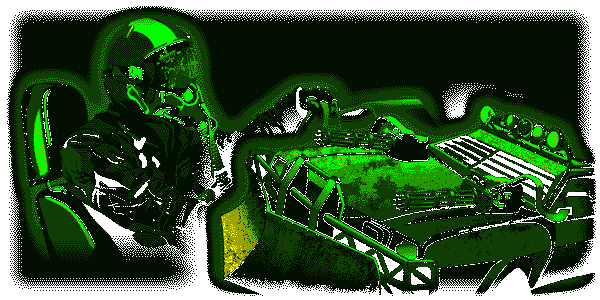
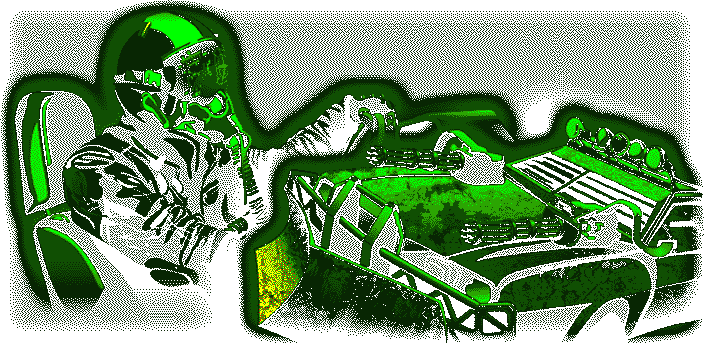
client: стартовое окно.

diff --git a/sublayers_common/static/css/modal_window.css b/sublayers_common/static/css/modal_window.css
@@ -159,8 +159,6 @@
     opacity: 0.95;
 }
 
-
-
 .dialogBtnOK {
     position: relative;
     float: left;
@@ -707,81 +705,68 @@
 
 /* Окно запроса на прохождение обучения в быстрой игре */
 #modalQuickGameMapTeachingPage {
-    width: 840px;
-    height: 380px;
-    margin-left: -420px;
+    width: 1200px;
+    height: 654px;
+    margin-left: -600px;
+    background: transparent url('/static/img/modal_window_image/monitor.png') 100% 100% no-repeat;
 }
 
-#modalQuickGameMapTeachingPage .modal-window-wrap {
-    padding: 0;
-    height: calc(100% - 26px);
-    border: none;
-    margin: 0;
-    font-family: FreePixel;
-    font-size: 16px
-}
-
-#modalQuickGameMapTeachingPage .left-path {
-    position: relative;
-    float: left;
-    width: 230px;
-    height: 100%;
-    padding: 5px 0 0 13px;
-    text-align: left;
-    box-sizing: border-box;
-    line-height: 22px;
-    font-weight: bold;
-}
-
-#modalQuickGameMapTeachingPage .question{
+.qg-mt-graphic-wrap {
     position: absolute;
-    bottom: 12px;
+    width: 826px;
+    height: 504px;
+    top: 57px;
+    left: 137px;
 }
 
-#modalQuickGameMapTeachingPage .right-path {
-    position: relative;
-    float: left;
-    width: calc(100% - 230px);
-    height: 100%;
-    box-sizing: border-box;
+.qg-mt-fight-btn {
+    position: absolute;
+    width: 138px;
+    height: 53px;
+    left: 982px;
+    top: 57px;
+    background: transparent url('/static/img/modal_window_image/btn1_start_active.png') 100% 100% no-repeat;
+    cursor: url(/static/img/cursors/hyper.png), pointer;
+}
+.qg-mt-fight-btn:hover {
+    background: transparent url('/static/img/modal_window_image/btn1_start_hover.png') 100% 100% no-repeat;
+}
+.qg-mt-fight-btn:active, .qg-pp-site-btn.active {
+    background: transparent url('/static/img/modal_window_image/btn1_start_press.png') 100% 100% no-repeat;
 }
 
-#modalQuickGameMapTeachingPage .start-qg-logo {
+.qg-mt-teaching-btn {
+    position: absolute;
+    width: 138px;
+    height: 53px;
+    left: 982px;
+    top: 110px;
+    background: transparent url('/static/img/modal_window_image/btn2_start_active.png') 100% 100% no-repeat;
+    cursor: url(/static/img/cursors/hyper.png), pointer;
+}
+.qg-mt-teaching-btn:hover {
+    background: transparent url('/static/img/modal_window_image/btn2_start_hover.png') 100% 100% no-repeat;
+}
+.qg-mt-teaching-btn:active, .qg-pp-again-btn.active {
+    background: transparent url('/static/img/modal_window_image/btn2_start_press.png') 100% 100% no-repeat;
+}
+
+.start-qg-logo {
     position: relative;
-    width: 600px;
-    height: 300px;
+    width: 704px;
+    height: 343px;
     margin: 0 auto;
     background: transparent url('/static/img/modal_window_image/start_qg.png') 100% 100% no-repeat;
-}
-
-#modalQuickGameMapTeachingPage .footer {
-    position: relative;
-    width: 100%;
-    height: calc(100% - 300px);
-    /*margin-top: 10px;*/
-    padding-top: 8px;
-    box-sizing: border-box;
-    border-width: 1px 0 0 0;
+    border-width: 0 0 1px 0;
     border-style: solid;
     border-image: linear-gradient(to right, transparent, #0e4b00, #0e4b00, #0e4b00, #0e4b00, transparent);
     border-image-slice: 1;
-    font: 18px Nouveau_IBM;
+    box-sizing: border-box;
 }
 
-#quickGameMapTeachingPageBtnOK {
+.start-qg-text {
     position: relative;
-    float: left;
-    margin-left: 30px;
-    width: 210px;
-    height: 30px;
-    line-height: 30px;
-}
-
-#quickGameMapTeachingPageBtnCancel {
-    position: relative;
-    float: right;
-    margin-right: 30px;
-    width: 210px;
-    height: 30px;
-    line-height: 30px;
+    width: 80%;
+    margin: 20px auto;
+    text-align: center;
 }

diff --git a/sublayers_common/static/js/modal_window.js b/sublayers_common/static/js/modal_window.js
@@ -17,7 +17,7 @@ var ModalWindow = (function () {
         this.modalAnswerInfo = $('#modalAnswerPage');
         this.modalItemDivision = $('#modalItemDivisionPage');
         this.modalQuickGamePoints = $('#modalQuickGamePointsPage');
-        this.modalQuickGameMapTeachingPage = $('#modalQuickGameMapTeachingPage');
+        this.modalQuickGameMapTeaching = $('#modalQuickGameMapTeachingPage');
 
         // утсновка классов по умолчанию
         this.parent.addClass('modal-window-parent');
@@ -30,7 +30,7 @@ var ModalWindow = (function () {
         this.modalAnswerInfo.addClass('modal-window-hide');
         this.modalItemDivision.addClass('modal-window-hide');
         this.modalQuickGamePoints.addClass('modal-window-hide');
-        this.modalQuickGameMapTeachingPage.addClass('modal-window-hide');
+        this.modalQuickGameMapTeaching.addClass('modal-window-hide');
 
         // Загрузка содержимого модельных окон
         this.modalWelcomeLoad();
@@ -534,7 +534,7 @@ var ModalWindow = (function () {
 
     ModalWindow.prototype.modalQuickGameMapTeachingPageLoad = function () {
         // Загрузить информацию из документа в див
-        this.modalQuickGameMapTeachingPage.load('/static/modal_window/modalQuickGameMapTeachingPage.html', function(){});
+        this.modalQuickGameMapTeaching.load('/static/modal_window/modalQuickGameMapTeachingPage.html', function(){});
     };
 
     ModalWindow.prototype.modalQuickGameMapTeachingPageShow = function (options) {
@@ -542,12 +542,12 @@ var ModalWindow = (function () {
         this._modalBackShow();
         options = options || {};
         // включить модальное окно modalOptions
-        this.modalQuickGameMapTeachingPage.removeClass('modal-window-hide');
-        this.modalQuickGameMapTeachingPage.addClass('modal-window-show');
+        this.modalQuickGameMapTeaching.removeClass('modal-window-hide');
+        this.modalQuickGameMapTeaching.addClass('modal-window-show');
 
         // Повесить новый эвент
-        var btn_ok = this.modalQuickGameMapTeachingPage.find('#quickGameMapTeachingPageBtnOK');
-        var btn_cancel = this.modalQuickGameMapTeachingPage.find('#quickGameMapTeachingPageBtnCancel');
+        var btn_ok = this.modalQuickGameMapTeaching.find('#quickGameMapTeachingPageBtnOK');
+        var btn_cancel = this.modalQuickGameMapTeaching.find('#quickGameMapTeachingPageBtnCancel');
         btn_ok.off('click');
         btn_cancel.off('click');
         btn_ok.on('click', function(event) {
@@ -567,8 +567,8 @@ var ModalWindow = (function () {
 
     ModalWindow.prototype.modalQuickGameMapTeachingPageHide = function() {
         this._modalBackHide();
-        this.modalQuickGameMapTeachingPage.removeClass('modal-window-show');
-        this.modalQuickGameMapTeachingPage.addClass('modal-window-hide');
+        this.modalQuickGameMapTeaching.removeClass('modal-window-show');
+        this.modalQuickGameMapTeaching.addClass('modal-window-hide');
     };
 
     return ModalWindow;

diff --git a/sublayers_common/static/modal_window/modalQuickGameMapTeachingPage.html b/sublayers_common/static/modal_window/modalQuickGameMapTeachingPage.html
@@ -1,18 +1,11 @@
-<div class="mainDivModalWindow">
-    <div class="windowDragCloseHeader-main">
-        <div class="windowDragCloseHeader-caption">Nuke:\<span>Быстрый бой</span>&gt;</div>
-    </div>
-    <div class="quickGameMapTeachingPage-wrap modal-window-wrap">
-        <div class="left-path">
-            <div>Быстрый бой - это урезанная версия Road Dogs без MMORPG-составляющей. Здесь можно оценить боевой компонент игры в режиме death match и научиться сражаться, используя тактический навигатор Nuke Commander.</div>
-            <div class="question">Желаете пройти обучение из 10 шагов?</div>
+<div class="qg-mt-graphic-wrap">
+    <div class="mainDivModalWindow">
+        <div class="windowDragCloseHeader-main">
+            <div class="windowDragCloseHeader-caption">Nuke:\<span>Быстрый бой</span>&gt;</div>
         </div>
-        <div class="right-path">
-            <div class="start-qg-logo"></div>
-            <div class="footer">
-                <div id="quickGameMapTeachingPageBtnCancel" class="modal-window-footer-btn sublayers-clickable">В бой!</div>
-                <div id="quickGameMapTeachingPageBtnOK" class="modal-window-footer-btn sublayers-clickable">Пройти обучение</div>
-            </div>
-        </div>
+        <div class="start-qg-logo"></div>
+        <div class="start-qg-text">Быстрый бой - это урезанная версия Road Dogs без MMORPG-составляющей. Здесь можно оценить боевой компонент игры в режиме death match и научиться сражаться, используя тактический навигатор Nuke Commander.</br></br>Желаете пройти обучение из 10 шагов?</div>
     </div>
 </div>
+<div id="quickGamePointsPageBtnOK" class="qg-mt-teaching-btn"></div>
+<div id="quickGameMapTeachingPageBtnCancel" class="qg-mt-fight-btn"></div>
